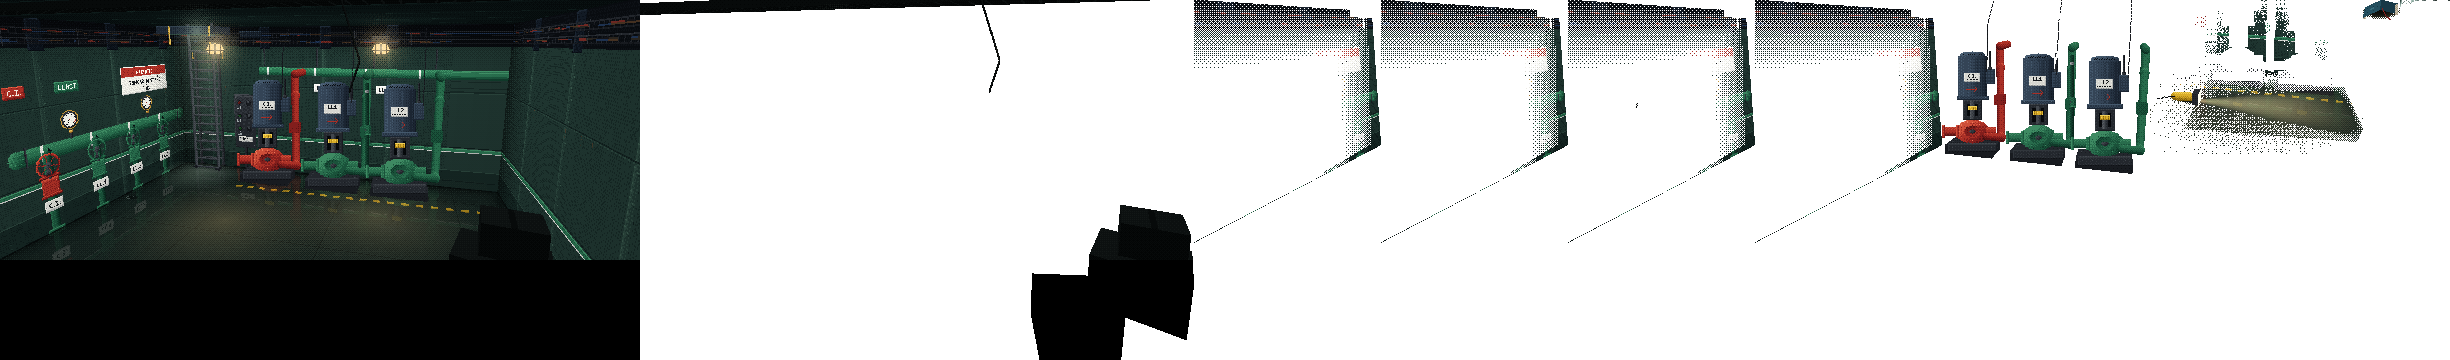
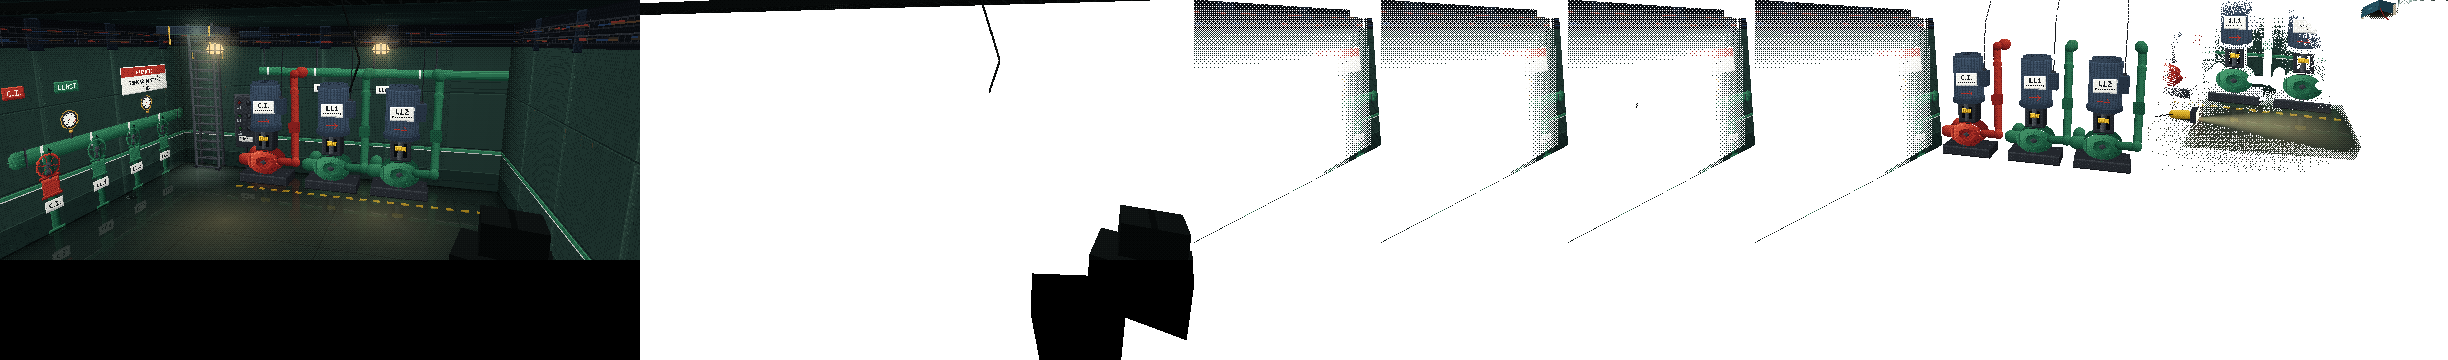
Ni un ou: les bombes de la sala de bombes, volums (bancada, voluta, canonades, llanterna i motor) en lloc del sprite pla
La capa del davant de les bombes, amb la baseline al fons: davant de la bomba vermella el personatge hi quedava darrere.

Changed region(s): [[0.4657, 0.0, 0.9624, 0.4583], [0.0931, 0.1833, 0.1863, 0.5194]]

diff --git a/games/ni-un-ou/adapters/benne/tools/hd640/rooms/sala_bombes.py b/games/ni-un-ou/adapters/benne/tools/hd640/rooms/sala_bombes.py
@@ -227,24 +227,9 @@ def escena(cv, tex, estat=frozenset()):
     for x in (hx0 + 2, hx1 - 2):
         e.tub('escala', (x, HW - 22, ZW - 40), (x, HW, ZW - 40), 1.2, [(36, 28, 6), (100, 76, 20), (180, 140, 40),
                                                                     (230, 190, 90)], 2.6)
-    # les bombes: les bancades en 3D, la bomba (el dibuix pla) dreta damunt i la sortida que puja i torna a la paret
+    # les bombes, en volum (vegeu _bomba): de l'esquerra (més lluny) a la dreta (més a prop de la càmera)
     for cx, body, tag in PUMPS:
-        x = _w(cx)
-        _foscor_el(e, 'ombra_bombes', x - 4, PZ - 2, 44, 22, 0.55)
-        e.foscor('ombra_bombes', (x - 70, 0.6, PZ + 4), (x + 10, 0.6, PZ + 4), (x - 10, 0.6, PZ - 50),
-                 (x - 90, 0.6, PZ - 50), lambda s, t: 0.3 * max(0.0, 1 - abs(t - 27) / 27) * max(0.0, 1 - abs(s - 40) / 40))
-        e.caixa('bombes', x - 33, x + 33, 0, 12, PZ - 16, PZ + 16, CAB, 2.8,
-                cares={'dalt': {'ramp': CAB, 'lvl': lambda s, t, P: 3.4 + (1.2 if (abs(s - 5) < 1.2 or abs(s - 61) < 1.2) and abs(t - 16) < 8 and int(t) % 8 < 2 else 0)},
-                       'davant': {'ramp': CAB, 'lvl': lambda s, t, P: 2.6 + (1.0 if t < 1.2 else 0)}})
-        bx = _pump_box(cx)
-        e.sprite('bombes', bom.crop(bx), (cx - bx[0], PL.FLOOR_Y + 3 - 11 - bx[1]), (x, 12, PZ))
-        ox = x + 40
-        e.tub('bombes', (ox, _y(PL.FLOOR_Y + 3 - 27), PZ), (ox, _y(59), PZ), 5, body, 2.8, brides=46)
-        e.tub('bombes', (ox, _y(59), PZ), (ox, _y(59), ZW - 2), 5, body, 3.0)
-        e.caixa('bombes', ox - 6, ox + 6, _y(134), _y(122), PZ - 6, PZ + 6, body, 3.0)
-        e.tub('bombes', (x + 19, _y(PL.FLOOR_Y + 3 - 27), PZ), (ox, _y(PL.FLOOR_Y + 3 - 27), PZ), 5, body, 3.0)
-        e.cable('bombes', [(x + 23, _y(PL.FLOOR_Y + 3 - 114), PZ - 2), (x + 23, HW - 30, PZ + 6), (x + 23, HW - 4, ZW - 6)],
-                CAB, 2.4, gruix=1.6)
+        _bomba(e, cx, body, tag, bom, tex['motors'][tag])
     # el llibre i la llanterna (els props)
     if 'llibre' in estat:
         _llibre(e)
@@ -252,6 +237,168 @@ def escena(cv, tex, estat=frozenset()):
         _llanterna(e)
     _primer_pla(e)
     return e
+
+
+# ─── Les bombes, en volum ───────────────────────────────────────────────────
+#
+# Cada bomba és la del dibuix pla (PL.pump) feta peces: la bancada (el davant, amb els perns, del dibuix pla), la
+# voluta (un cilindre el·líptic ajagut, de cara a la sala: la tapa amb el cercle de perns és el dibuix pla), la
+# llanterna d'acoblament (una caixa amb la finestra i la protecció groga del dibuix pla al davant), el motor (un
+# cilindre vertical de facetes amb les aletes i la placa del nom, desenrotllades a `_motor_pla`), la brida del motor,
+# la tapa del ventilador amb la reixeta, la caixa de borns al costat i el cable que puja a la safata. L'aspiració surt
+# per l'esquerra i torna enrere fins a la paret; la impulsió surt per la dreta, puja amb la vàlvula de retenció i torna
+# a la paret per dalt, al col·lector pintat. La contraincendis és vermella (voluta i canonades) i porta «C.I.».
+
+MOTOR_R = 19.5                                     # el radi del motor (el dibuix pla en fa 39 d'ample)
+MOTOR_H = 53                                       # l'alçada del cos del motor, sense la brida
+MOTOR_TW = round(2 * math.pi * MOTOR_R)            # el motor desenrotllat: l'amplada de la textura
+PLACA = (21, 13, 1.25)                             # la placa del nom: amplada i alçada al dibuix pla, i com s'amplia
+
+
+def _yb(fy):
+    """Una y del dibuix pla de les bombes → la y del món (la bancada fa 12 i el seu cantó de dalt és base_y - 11)."""
+    return PL.FLOOR_Y + 4 - fy
+
+
+@functools.lru_cache(maxsize=None)
+def _motor_pla(tag):
+    """El motor desenrotllat (la volta sencera, amb el davant al mig): les aletes i la fletxa del sentit de gir; a sota
+    (y ≥ MOTOR_H + 4), la placa amb el nom, que va a part (plana). Llum plana: la del món la fa cada faceta."""
+    from hd.rooms.arenga import ENG_LIGHT, box
+    from hd.rooms.comu import text, text_width
+    cv = Canvas(light=TEXL)
+    TW, H_ = MOTOR_TW, MOTOR_H
+    for y in range(H_):
+        for x in range(TW):
+            v = 3.3 + (0.35 if x % 4 < 2 else 0) - (0.35 if x % 4 == 3 else 0)
+            if y == 0:
+                v += 0.6
+            elif y >= H_ - 2:
+                v -= 0.5
+            cv.put(x, y, ENG_LIGHT, v)
+    cx = TW // 2
+    py = H_ + 4
+    box(cv, 0, py, PLACA[0] - 1, py + PLACA[1] - 1, WHITEP, 3.8)
+    w = text_width(tag)
+    text(cv, tag, PLACA[0] // 2 - w // 2, py + 2, None, 0, flat=PL.INK)
+    for x in range(2, PLACA[0] - 2, 2):
+        cv.put(x, py + 9, DARK, 1.6)
+    cv.line(cx - 8, 44, cx + 6, 44, REDP, 3.6)
+    cv.line(cx + 6, 44, cx + 3, 41, REDP, 3.6)
+    cv.line(cx + 6, 44, cx + 3, 47, REDP, 3.6)
+    return cv.img
+
+
+def _cara(e, sid, Ps, fora, **kw):
+    """Un quad del món amb la cara de fora cap a `fora` (es reordenen els cantons si cal)."""
+    P0, P1, P2, P3 = Ps
+    a = (P1[0] - P0[0], P1[1] - P0[1], P1[2] - P0[2])
+    b = (P3[0] - P0[0], P3[1] - P0[1], P3[2] - P0[2])
+    n = (a[1] * b[2] - a[2] * b[1], a[2] * b[0] - a[0] * b[2], a[0] * b[1] - a[1] * b[0])
+    if n[0] * fora[0] + n[1] * fora[1] + n[2] * fora[2] < 0:
+        P0, P1, P2, P3 = P1, P0, P3, P2
+    e.quad(sid, P0, P1, P2, P3, **kw)
+
+
+def _disc(e, sid, x, y, z, r, ramp, lvl):
+    """Una tapa rodona horitzontal (de cara amunt), de radi r."""
+    e.quad(sid, (x - r, y, z + r), (x + r, y, z + r), (x + r, y, z - r), (x - r, y, z - r), ramp=ramp, lvl=lvl,
+           forma=lambda s, t: (s - r) ** 2 + (t - r) ** 2 <= r * r)
+
+
+def _cilindre(e, sid, x, z, r, y0, y1, ramp, lvl=3.0, tex=None, n=20, a0=0.0):
+    """Un cilindre vertical de facetes (els costats; la tapa, a part). `tex` = (imatge, amplada, alçada): la volta
+    sencera desenrotllada, amb el mig de la imatge mirant cap a `a0`."""
+    for i in range(n):
+        a, b = a0 - math.pi + 2 * math.pi * i / n, a0 - math.pi + 2 * math.pi * (i + 1) / n
+        Ps = ((x + r * math.sin(a), y1, z - r * math.cos(a)), (x + r * math.sin(b), y1, z - r * math.cos(b)),
+              (x + r * math.sin(b), y0, z - r * math.cos(b)), (x + r * math.sin(a), y0, z - r * math.cos(a)))
+        if tex is not None:
+            img, tw, th = tex
+            e.quad(sid, *Ps, tex=(img, (tw * i / n, 0, tw * (i + 1) / n, th)))
+        else:
+            e.quad(sid, *Ps, ramp=ramp, lvl=lvl)
+
+
+def _voluta(e, sid, x, yc, z0, z1, rx, ry, ramp, lvl=3.0, n=18):
+    """La voluta: un cilindre el·líptic ajagut al llarg de z (de z0, el davant, a z1), només els costats."""
+    for i in range(n):
+        a, b = 2 * math.pi * i / n, 2 * math.pi * (i + 1) / n
+        m = (a + b) / 2
+        Pa = (x + rx * math.cos(a), yc + ry * math.sin(a))
+        Pb = (x + rx * math.cos(b), yc + ry * math.sin(b))
+        _cara(e, sid, ((Pa[0], Pa[1], z0), (Pb[0], Pb[1], z0), (Pb[0], Pb[1], z1), (Pa[0], Pa[1], z1)),
+              (math.cos(m) / rx, math.sin(m) / ry, 0), ramp=ramp,
+              lvl=lambda s, t, P, lvl=lvl: lvl + (0.9 if t < 1.6 else 0) - (0.5 if 2.4 < t < 3.6 else 0))
+
+
+def _bomba(e, cx, body, tag, bom, motor):
+    """Una bomba en volum. `cx`: la x del dibuix pla; `bom`: el dibuix pla de les bombes; `motor`: `_motor_pla(tag)`."""
+    from hd.rooms.arenga import ENG_LIGHT
+    sid = 'bombes'
+    x, z = _w(cx), PZ
+    base_y = PL.FLOOR_Y + 3
+    vy = base_y - 27                               # el centre de la voluta, al dibuix pla
+    yv, rx, ry = _yb(vy), 23, 16                   # (la voluta s'assenta a la bancada)
+    ly0, ly1 = base_y - 69, base_y - 43            # la llanterna d'acoblament
+    my0, my1 = base_y - 128, base_y - 70           # el motor (amb la brida a baix, de 5)
+    ym0, ym1 = _yb(my1), _yb(my0)
+    ix, ox = x - 32, x + 39                        # l'aspiració (esquerra) i la impulsió (dreta)
+    yt = _y(59)                                    # el col·lector pintat de dalt
+    # l'ombra a terra (sota la bancada, i la que fa cap enrere a l'esquerra, lluny de les bombetes)
+    _foscor_el(e, 'ombra_bombes', x - 2, z - 2, 44, 22, 0.55)
+    e.foscor('ombra_bombes', (x - 70, 0.6, z + 4), (x + 10, 0.6, z + 4), (x - 10, 0.6, z - 50),
+             (x - 90, 0.6, z - 50), lambda s, t: 0.3 * max(0.0, 1 - abs(t - 27) / 27) * max(0.0, 1 - abs(s - 40) / 40))
+    # el que va cap a la paret (de lluny a prop): la impulsió per dalt i l'aspiració per baix, amb les brides de paret
+    e.tub(sid, (ox, yt, z), (ox, yt, ZW - 1), 5, body, 3.0)
+    e.tub(sid, (ox, yt, ZW - 5), (ox, yt, ZW - 1), 7.5, body, 3.4)
+    e.tub(sid, (ix, yv, ZW - 1), (ix, yv, z - 2), 5, body, 2.8, brides=40)
+    e.tub(sid, (ix, yv, ZW - 5), (ix, yv, ZW - 1), 8, body, 3.4)
+    # la bancada: el davant, amb els perns, del dibuix pla
+    e.caixa(sid, x - 33, x + 33, 0, 12, z - 16, z + 16, CAB, 2.8,
+            cares={'dalt': {'ramp': CAB, 'lvl': lambda s, t, P: 3.4 + (1.2 if (abs(s - 5) < 1.2 or abs(s - 61) < 1.2) and abs(t - 16) < 8 and int(t) % 8 < 2 else 0)},
+                   'davant': {'tex': (bom, (cx - 32, base_y - 11, cx + 33, base_y + 1))},
+                   'dreta': {'ramp': CAB, 'lvl': lambda s, t, P: 2.4 + (0.8 if t < 1.2 else 0)}})
+    # l'aspiració: el colze i la brida doble, fins a la voluta
+    e.tub(sid, (ix, yv, z - 2), (x - rx + 4, yv, z - 2), 5, body, 3.0)
+    for bx in (x - 26, ix):
+        e.tub(sid, (bx - 1.2, yv, z - 2), (bx + 1.2, yv, z - 2), 8, body, 3.6)
+    # la voluta, amb la tapa de davant del dibuix pla (el cercle de perns i el tap de purga)
+    _voluta(e, sid, x, yv, z - 12, z + 10, rx, ry, body, 2.8)
+    e.quad(sid, (x - rx, yv + ry, z - 12), (x + rx, yv + ry, z - 12), (x + rx, yv - ry, z - 12),
+           (x - rx, yv - ry, z - 12), tex=(bom, (cx - 23, vy - 16, cx + 24, vy + 17)),
+           forma=lambda s, t: ((s - rx) / rx) ** 2 + ((t - ry) / ry) ** 2 <= 1.0)
+    # la llanterna d'acoblament: la finestra amb l'eix i la protecció groga, del dibuix pla
+    e.caixa(sid, x - 12, x + 12, _yb(ly1), _yb(ly0), z - 9, z + 9, CAB, 2.8,
+            cares={'davant': {'tex': (bom, (cx - 12, ly0, cx + 13, ly1 + 1))},
+                   'dreta': {'ramp': CAB, 'lvl': lambda s, t, P: 2.2 + (0.9 if s < 1.2 else 0)}})
+    # el motor: la brida, el cos d'aletes (amb la placa i la fletxa) i la tapa del ventilador amb la reixeta
+    _cilindre(e, sid, x, z, 21, ym0, ym0 + 5, ENG_LIGHT, 3.0, n=20)
+    _disc(e, sid, x, ym0 + 5, z, 21, ENG_LIGHT, lambda s, t, P: 3.8)
+    ap = 0.7 * math.atan2(CAM.pos[0] - x, -(CAM.pos[2] - z))   # el davant del motor, girat una mica cap a la càmera
+    _cilindre(e, sid, x, z, MOTOR_R, ym0 + 5, ym1, None, tex=(motor, MOTOR_TW, MOTOR_H), n=20, a0=ap)
+    # la placa del nom, plana, cargolada al davant del motor
+    pw, ph = PLACA[0] * PLACA[2] / 2, PLACA[1] * PLACA[2] / 2
+    rr, yc = MOTOR_R + 0.6, ym1 - 26
+    C = (x + rr * math.sin(ap), z - rr * math.cos(ap))
+    tx, tz = math.cos(ap), math.sin(ap)
+    e.quad(sid, (C[0] - tx * pw, yc + ph, C[1] - tz * pw), (C[0] + tx * pw, yc + ph, C[1] + tz * pw),
+           (C[0] + tx * pw, yc - ph, C[1] + tz * pw), (C[0] - tx * pw, yc - ph, C[1] - tz * pw),
+           tex=(motor, (0, MOTOR_H + 4, PLACA[0], MOTOR_H + 4 + PLACA[1])))
+    _disc(e, sid, x, ym1, z, MOTOR_R, ENG_LIGHT, lambda s, t, P: 3.6)
+    _cilindre(e, sid, x, z, 17, ym1, ym1 + 4, ENG_LIGHT, 3.4, n=18)
+    _disc(e, sid, x, ym1 + 4, z, 17, ENG_LIGHT,
+          lambda s, t, P: 2.0 if int(math.hypot(s - 17, t - 17)) % 3 == 0 and math.hypot(s - 17, t - 17) < 14 else 3.9)
+    # la caixa de borns, al costat del motor, amb el premsaestopes i el cable que puja a la safata
+    e.caixa(sid, x + 16, x + 27, _yb(my0 + 37), _yb(my0 + 17), z - 6, z + 6, ENG_LIGHT, 3.0,
+            cares={'dalt': {'ramp': ENG_LIGHT, 'lvl': 4.0}})
+    e.caixa(sid, x + 19, x + 24, _yb(my0 + 17), _yb(my0 + 14), z - 2, z + 2, CAB, 3.4)
+    e.cable(sid, [(x + 21.5, _yb(my0 + 14), z), (x + 22, HW - 30, z + 6), (x + 22, HW - 4, ZW - 6)], CAB, 2.4, gruix=1.6)
+    # la impulsió: surt per la dreta de la voluta, colze, puja (amb la vàlvula de retenció) fins al col·lector
+    e.tub(sid, (x + rx - 4, yv, z), (ox, yv, z), 5, body, 3.0)
+    e.tub(sid, (ox, yv, z), (ox, yt, z), 5, body, 2.8, brides=46)
+    e.caixa(sid, ox - 6, ox + 6, _y(134), _y(122), z - 6, z + 6, body, 3.0)
+    e.tub(sid, (ox, yt, z), (ox, yt, z), 5.6, body, 3.2)              # (el colze de dalt)
 
 
 def _gira(cx, cz, a):
@@ -366,7 +513,8 @@ def _penjolls(e):
 
 @functools.lru_cache(maxsize=None)
 def _textures():
-    return {'paret': _paret_base(), 'llisa': _llisa(), 'bombes': _bombes()}
+    return {'paret': _paret_base(), 'llisa': _llisa(), 'bombes': _bombes(),
+            'motors': {tag: _motor_pla(tag) for _, _, tag in PUMPS}}
 
 
 def _render(estat=frozenset(), tex=None):
@@ -502,18 +650,21 @@ def _z_a_v(x, v):
     return (lo + hi) / 2
 
 
-FRONT = [
-    {'id': 'davant', 'mask': _amo({'primer_pla'}), 'baseline': 999, 'zIndex': 20},
-    {'id': 'davant_bombes', 'mask': _amo({'bombes'}), 'baseline': _p(_w(501), PZ - 18)[1], 'zIndex': 20,
-     'props': ('llanterna',)},                     # (la llum de la llanterna a la bancada de la bomba vermella)
-]
-
 V_PROP = 250
 WALK_MON = ([(10, 60), (10, ZW - 12), (_w(285), ZW - 12), (_w(285), ZW - 22), (_w(380), PZ - 26), (XR - 10, PZ - 26)]
             + [(x, _z_a_v(x, V_PROP)) for x in (XR - 10, 340, 280, 200, 120, 60)] + [(10, _z_a_v(10, V_PROP))])
 _WALK = [_p(x, z) for x, z in WALK_MON]
 _V_FONS, _V_PROP = min(v for _, v in _WALK), max(v for _, v in _WALK)
 _PW = (_w(380), _w(640))
+
+# Les bombes: el terra on es camina no passa mai per darrere de cap peça (s'acaba davant les bancades, i a l'esquerra
+# de la vermella hi ha l'aspiració, més enrere), així que el personatge hi és sempre davant. (Abans la línia era a
+# PZ - 18 de la bomba del mig, i davant de la vermella, on el terra s'acaba més amunt, el personatge hi quedava darrere.)
+FRONT = [
+    {'id': 'davant', 'mask': _amo({'primer_pla'}), 'baseline': 999, 'zIndex': 20},
+    {'id': 'davant_bombes', 'mask': _amo({'bombes'}), 'baseline': _V_FONS - 1, 'zIndex': 20,
+     'props': ('llanterna',)},                     # (la llum de la llanterna a la bancada de la bomba vermella)
+]
 
 GEOMETRIA = {
     'things': {
